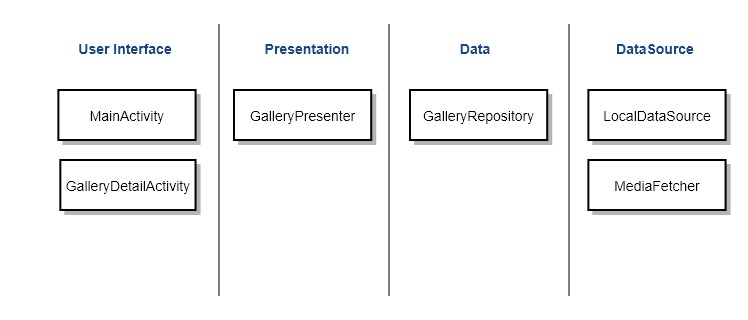
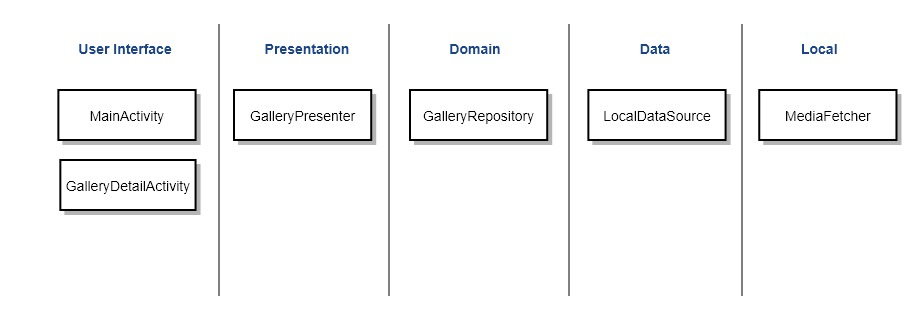
update readme

diff --git a/README.md b/README.md
@@ -118,10 +118,16 @@ subscribe(
 [GalleryPresenter][GalleryPresenter] 를 사용하여 Media 데이터를 가져올 수 있습니다.
 
 ### Presentation
-이 Layer는 UI를 표현하는데 사용되지만, 동시에 UI 자체에 대해서는 알지 못합니다. 즉, 안드로이드 프레임 워크에 의존하지 않기 때문에 Test 환경을 쉽게 구성할 수 있습니다.  [GalleryRepository](https://github.com/kimtaesu/CleanGallery/blob/master/app/src/main/java/com/hucet/clean/gallery/repository/GalleryRepository.kt)를 사용하여 Media 데이터를 가져올 수 있습니다.
+이 Layer는 UI를 표현하는데 사용되지만, 동시에 UI 자체에 대해서는 알지 못합니다. 즉, 안드로이드 프레임 워크에 의존하지 않기 때문에 Test 환경을 쉽게 구성할 수 있습니다.  [GalleryRepository][GalleryRepository]를 사용하여 Media 데이터를 가져올 수 있습니다.
+
+### Domain
+Domain Layer의 [GalleryRepository][GalleryRepository]는 `fun getGalleries(pathLocationContext: PathLocationContext, cacheInvalidate: Boolean): Flowable<List<Basic>` 를 정의하고 있습니다.
+즉, Presenter로 전달되어지는 type은 `Flowable<List<Basic>`로 정의하고 있습니다.
 
 ### Data
-Data Layer는 여러 External data layer 대한 **Access Point**입니다. 현재는 Local data layer만 구현되어 있으며, 추후 요구사항에 따라 여러 Cache, Network data source로 부터 데이터를 가져오는 데 사용됩니다.
+Data Layer는 여러 External data layer 대한 **Access Point**입니다.
+현재는 [LocalDataSource][LocalDataSource]만 구현되어 있으며, 추후 요구사항에 따라 추상화를 거쳐서
+여러 Cache, Network data source로 부터 데이터를 가져오는 데 사용됩니다.
 
 > Data layer의 추상화는 _Over Engineering_ 일 수 있습니다. Data layer는 **저 수준이기 때문에 Data Layer의 변경은 고 수준(UI, Presentation) 범위를 포함될 수 있습니다.** 또한 실제 문제가 뒤 늦게 나타날 수도 있으며, 시간이 길어질 수록 그동안 구현한 코드를 변경하는 것이 어려울 수 있습니다.
 
